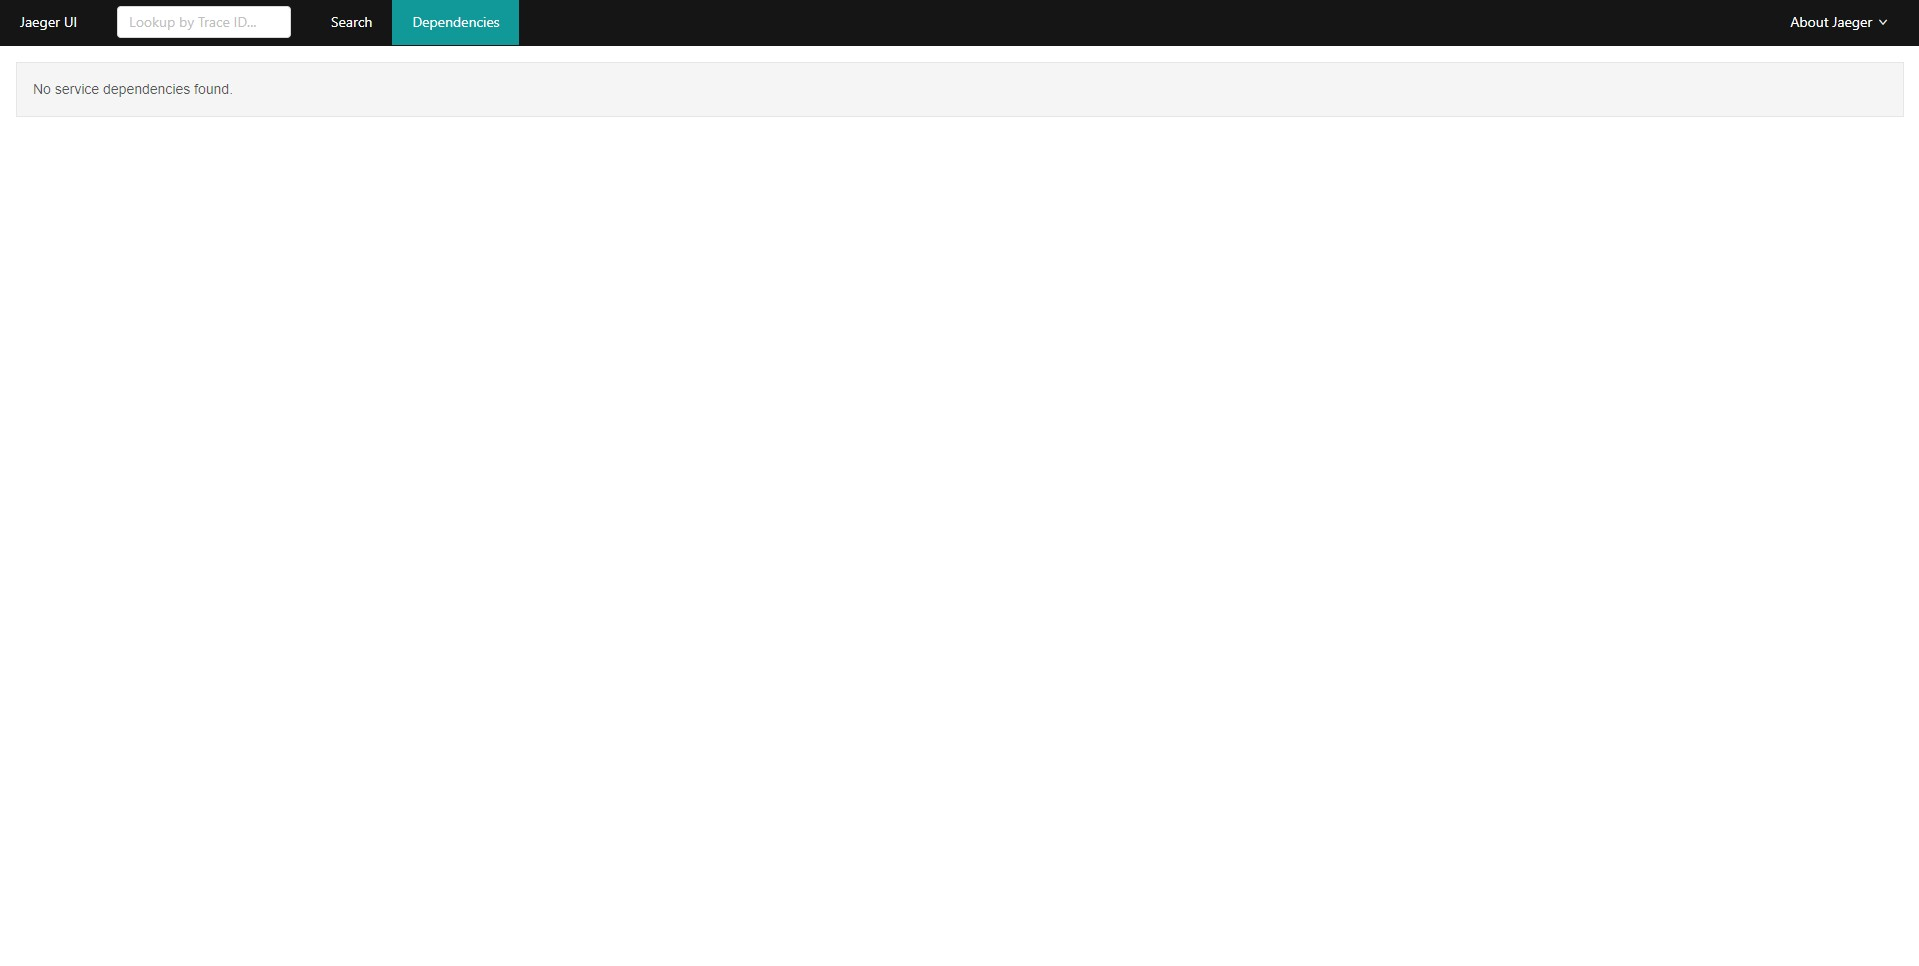
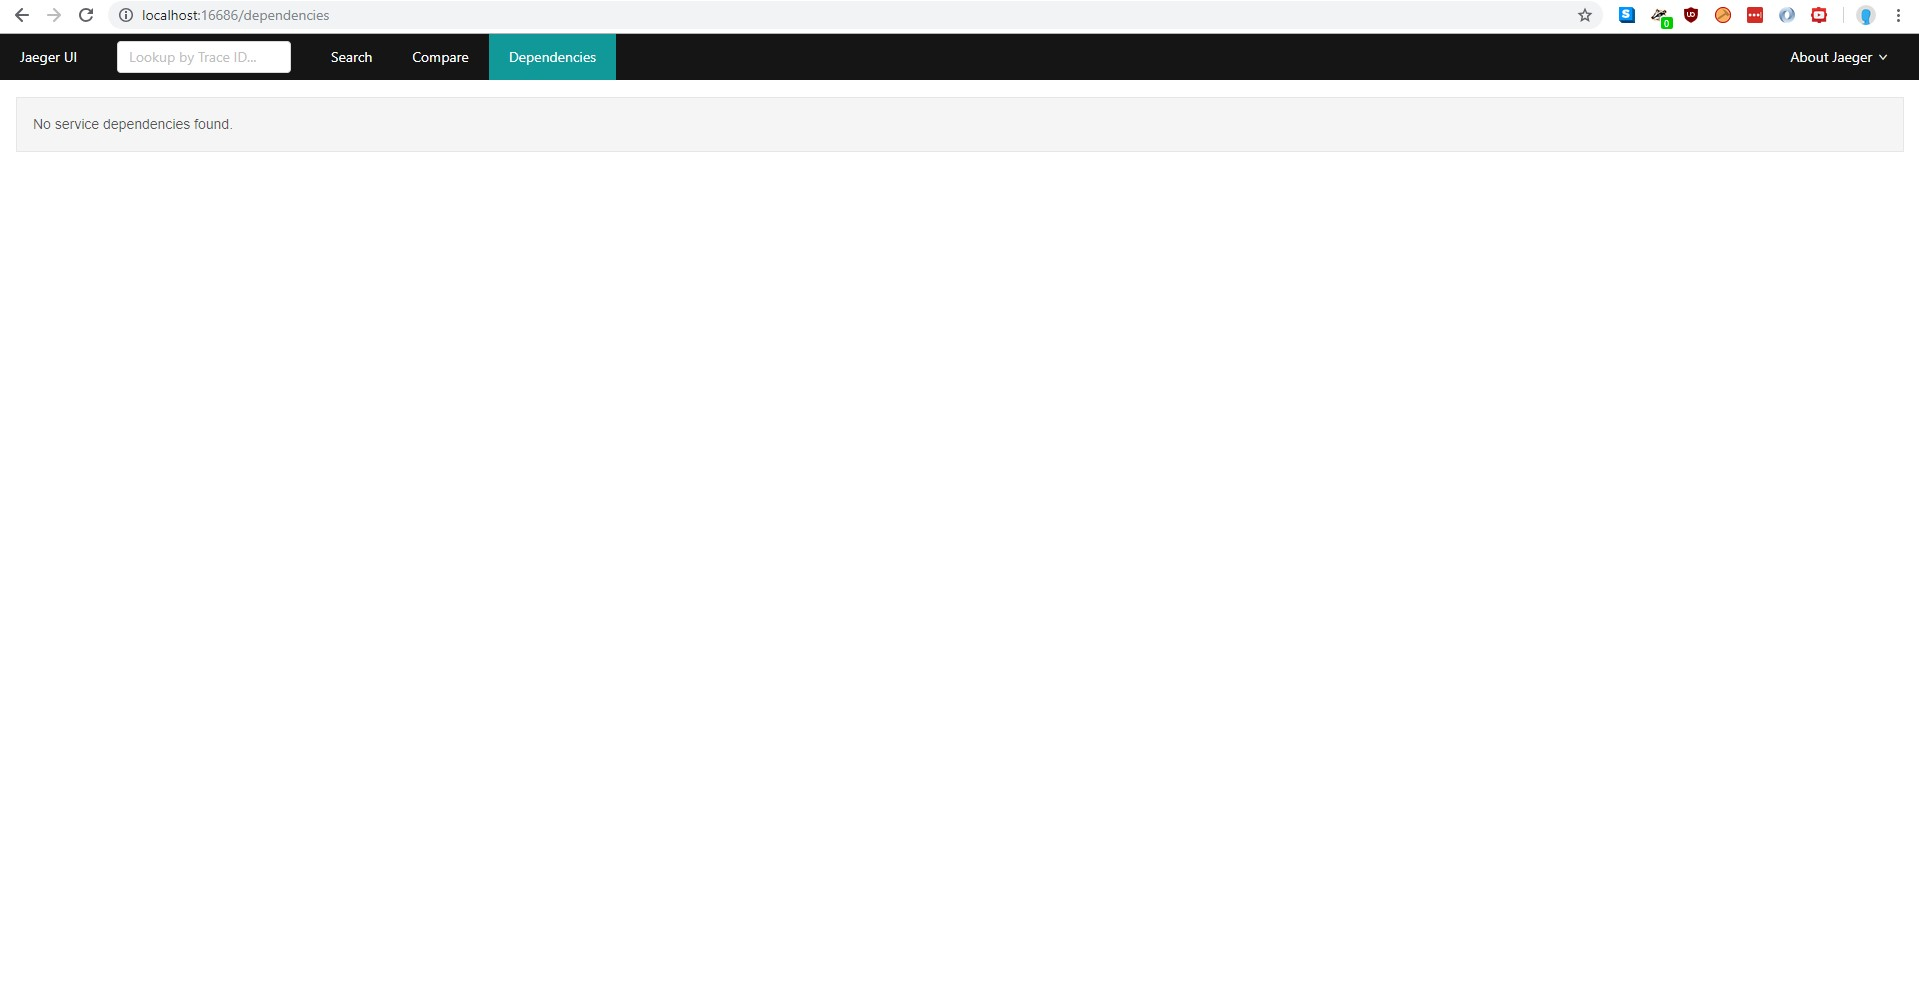
New images, fixes

Changed region(s): [[0.0, 0.0, 1.0, 0.1553]]

diff --git a/article/post.md b/article/post.md
@@ -13,9 +13,9 @@ We will demonstrate how to add Jaeger tracing to an existing KumuluzEE applicati
 
 ## Prerequisites
 Before starting, make sure, that you have the following things ready:
--	Java installed (8 and up),
+-	Installed Java (8 and up),
 -	Installed Docker (for running Jaeger; this is optional if you are going to run Jaeger as a standalone service),
--	Downloaded starting project from GitHub (https://github.com/evader1337/opentracing-blog).
+-	Cloned starting project from GitHub (https://github.com/kumuluz/kumuluzee-samples/tree/master/kumuluzee-opentracing-tutorial).
 
 Let us run Jaeger before starting with writing code. This can be as simple as entering this line in the console:  
 ```
@@ -31,11 +31,15 @@ $ docker run -d --name jaeger \
   jaegertracing/all-in-one:1.9
 ```
 
-Jaeger GUI is now accessible on `http://localhost:16686`. It consists of two main screens. The first one is the »Search« tab, which enables searching through our traces with different criteria.
+Jaeger GUI is now accessible on `http://localhost:16686`. It consists of three main screens. The first one is the »Search« tab, which enables searching through our traces with different criteria.
 
 ![alt text](images/emptysearch.jpg "Search tab in Jaeger GUI")
 
-The second one is the »Dependencies« tab, which displays a graph of our microservices and their respective connections. 
+The second one is the »Compare« tab, which allows comparison of two spans.
+
+![alt text](images/emptycompare.jpg "Search tab in Jaeger GUI")
+
+The last one is the »Dependencies« tab, which displays a graph of our microservices and their respective connections. 
 
 ![alt text](images/emptyjaeger.jpg "Dependencies tab in Jaeger GUI")
 
@@ -58,11 +62,11 @@ Project consists of 5 microservices:
 ![alt text](images/diagram.png "Diagram explaining microservice connections")
 
 ## Step by step commits
-1. Adding KumuluzEE OpenTracing dependency (https://github.com/evader1337/opentracing-blog/commit/76f111771caed3160043cfab0521eba6c9451611)
-2. Adding service-name property (https://github.com/evader1337/opentracing-blog/commit/6dfa5bb4bc523554c783d847916fb810cf38ae18)
-3. Adding outgoing requests tracing (https://github.com/evader1337/opentracing-blog/commit/34ebb055afc71c56ee31258fbc3f448c9f9a21f0)
-4. Adding data to spans (https://github.com/evader1337/opentracing-blog/commit/6b8d0f55a27f368b3d67470cbbeee348d623ed84)
-5. Adding custom spans (https://github.com/evader1337/opentracing-blog/commit/0403a177b32a8596855bf6c1ded5fec4fad952e4)
+1. Adding KumuluzEE OpenTracing dependency (https://github.com/kumuluz/kumuluzee-samples/commit/31e4febcb91289a163511839719e5bea45ec6b73)
+2. Adding service-name property (https://github.com/kumuluz/kumuluzee-samples/commit/297b40bd64383d38f8fb4927aa00612558e0bfad)
+3. Adding outgoing requests tracing (https://github.com/kumuluz/kumuluzee-samples/commit/8df8560fe19f9e2d384de282cf9b5ce8fefb3a49)
+4. Adding data to spans (https://github.com/kumuluz/kumuluzee-samples/commit/1395a1dbf348f667bcd4fd5aa0066ce585274642)
+5. Adding custom spans (https://github.com/kumuluz/kumuluzee-samples/commit/64a9ceb964d8646c399855a591c5d207e8606c7f)
 
 ## Adding KumuluzEE OpenTracing dependency
 To start with tracing the first thing we need to do is add the dependency KumuluzEE OpenTracing to our application. Locate the file pom.xml in root folder and add the following dependency:
@@ -74,7 +78,7 @@ To start with tracing the first thing we need to do is add the dependency Kumulu
 </dependency>
 ```
 
-This needs to be done for all microservices. At the time of writing this blog the latest version of KumuluzEE OpenTracing was 1.0.0. 
+This needs to be done for all microservices. At the time of writing this blog the latest version of KumuluzEE OpenTracing was 1.0.0. You don't need to add the version manually because the version is defined in the root pom as a variable and will be used automatically. 
 Just by adding this dependency, tracing is automatically enabled on all JAX-RS incoming requests. To see how this looks inside Jaeger GUI, simply visit the master endpoint in your browser:
 `http://localhost:8080/v1/master`. After the page loads, we can see if any traces were added to Jaeger. 
 
@@ -98,7 +102,11 @@ Let us rerun our microservices and try again. Traces are now more human friendly
 There are several other settings available, but we do not need them for this sample. For more information about other settings, check the KumuluzEE OpenTracing GitHub page (https://github.com/kumuluz/kumuluzee-opentracing). 
 
 ## Adding JAX-RS outgoing requests tracing
-As already mentioned before, JAX-RS incoming requests are traced automatically. The same does not apply to outgoing requests. At the moment, we have traces for each individual microservice, but we want to see the whole trace grouped together. We need to add some code to achieve that. First, locate the `Resource.java` file (`src/main/java/com/dk/tracingblog/master`) and change the initialization logic for the `Client` class:
+As already mentioned before, JAX-RS incoming requests are traced automatically. The same does not apply to outgoing requests. At the moment, we have traces for each individual microservice, but we want to see the whole trace grouped together. We need to add some code to achieve that. First, locate the `Resource.java` file (`src\main\java\com\kumuluz\ee\samples\opentracing\tutorial\master`) and change the initialization logic for the `Client` class. Replace line
+```java
+private Client client = ClientBuilder.newClient();
+```
+with 
 ```java
 private Client client = ClientTracingRegistrar.configure(ClientBuilder.newBuilder()).build();
 ```
@@ -108,7 +116,7 @@ For a microservice to resume the trace of some other microservice, the details o
 
 If we open this trace, we can see the whole request with all the microservices in one. 
 
-![alt text](images/groupedspandetails.jpg "Grouped trace details")
+![alt text](images/groupedtracedetails.jpg "Grouped trace details")
 
 This is exactly what we wanted; the overview of the whole request will all the timestamps. We can also look at the "Dependencies" tree now, which is updated with our microservices:
 
@@ -122,7 +130,7 @@ We will demonstrate three additional features of tracing:
 -	Adding custom spans (such as database access).
 
 ## Handling exceptions
-Exceptions are handled automatically by the KumuluzEE OpenTracing. To demonstrate this, we will throw an exception in the `delta` microservice. Locate the `Resource.java` file (`src/main/java/com/dk/tracingblog/delta`) and add the following line:
+Exceptions are handled automatically by the KumuluzEE OpenTracing. To demonstrate this, we will throw an exception in the `delta` microservice. Locate the `Resource.java` file (`src\main\java\com\kumuluz\ee\samples\opentracing\tutorial\delta`) and add the following line:
 
 ```java
 @GET
@@ -139,12 +147,12 @@ We now have to restart the `delta` microservice and refresh the page. The create
 We can see from the trace that exception was added to the trace as a log. We will cover adding logs in the next section.
 
 ## Adding custom data to spans
-If we look back to our project structure, we added some simulated lag to our application in the `beta` microservice. Basically, we added a random delay from 1 to 1000 milliseconds to the request. We will add this parameter to the trace to see, how much did we have to wait for the request. We start by moving the wait time to a new variable. Then we inject the `Tracer` instance. After that, we can access the current span with `tracer.activeSpan` and add our delay to it. We can do it in three ways: with adding a tag, adding a log entry or adding a baggage item. We will demonstrate all three:
+If we look back to our project structure, we added some simulated lag to our application in the `beta` microservice. Basically, we added a random delay from 1 to 1000 milliseconds to the request. We will add this parameter to the trace to see, how much did we have to wait for the request. We start by moving the wait time to a new variable. Then we inject the `Tracer` instance (we also addded @RequestScoped for CDI injection). After that, we can access the current span with `tracer.activeSpan` and add our delay to it. We can do it in three ways: with adding a tag, adding a log entry or adding a baggage item. We will demonstrate all three:
 -	`setTag();`
 -	`log();`
 -	`setBaggageItem();`
 
-Full code:
+Full code (`src\main\java\com\kumuluz\ee\samples\opentracing\tutorial\beta\Resource.java`):
 ```java
 @Path("beta")
 @Consumes(MediaType.APPLICATION_JSON)
@@ -179,7 +187,7 @@ public class Resource {
 }
 ```
 
-Choosing a method of storing custom data is up to a developer. Tags are often used for storing metadata information (such as IP addresses, span types, versions, etc.), logs are used for storing messages (such as exceptions) and baggage is used for storing data, which can be retrieved later by developer with method `getBaggageItem()`.
+Choosing a method of storing custom data is up to the developer. Tags are often used for storing metadata information (such as IP addresses, span types, versions, etc.), logs are used for storing messages (such as exceptions) and baggage is used for storing data, which can be retrieved later with method `getBaggageItem()`.
 
 This is not the only thing we can do with injected tracer. By injecting the tracer, you get access to its methods. The main thing you can do with it is start spans manually. You can read more in OpenTracing documentation (https://opentracing.io/docs/overview/). Also, read the documentation for more details on when to use each method of adding custom data to spans (baggage, log or tag). Let us restart the `beta` microservice and see how our trace looks like now:
 
@@ -190,7 +198,7 @@ The final thing we will do in this guide is add tracing to functions outside of 
 
 To demonstrate this, we will show how to add calls to the database. We have implemented a simulated database in our `gamma` microservice. The easiest way to add custom spans is to use the `@Traced` annotation and put it on the class. This way, all the methods will be traced. This annotation can also be used on a single method if we want to trace only a specific method inside the class. It is also possible to annotate the class and then disable tracing on methods by annotating them and set property value to false. Annotating and setting value to false can also be used to disable automatic tracing of JAX-RS incoming requests.
 
-We will put `@Traced` annotation to our Database class and all methods inside the class will be traced. It is also possible to change the span name by changing the operationName parameter. Let us see how this looks like inside the code (`Database.java` file, located in `src/main/java/com/dk/tracingblog/gamma`):
+We will put `@Traced` annotation to our Database class and all methods inside the class will be traced. It is also possible to change the span name by changing the operationName parameter. Let us see how this looks like inside the code (`Database.java` file, located in `src\main\java\com\kumuluz\ee\samples\opentracing\tutorial\gamma`):
 
 ```java
 @ApplicationScoped
